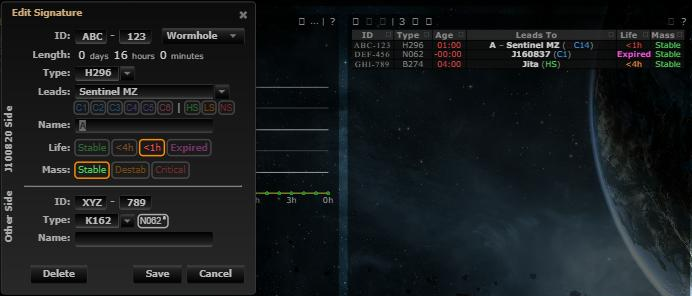
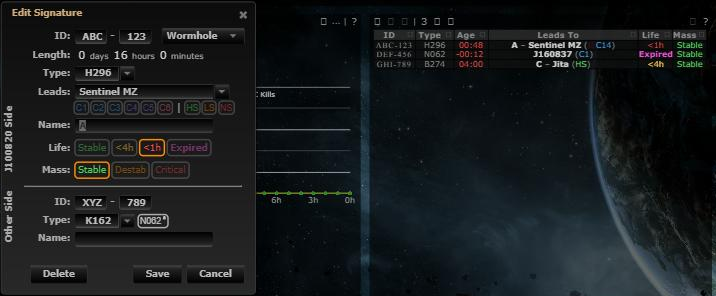
Life states: review round 1 fixes
- Dialog: the state it opened with keeps each signature's timer (no reset
  when the state moved on while the dialog was open)
- A never-expires hole set to Expired stays Expired (timer a second ago;
  only lifeLeft == lifeTime means no timer)
- Sig list: tell the table sorter when a Life cell's text changes
- <4h is amber (#FFC94D), apart from the Destab orange; new after.png
- sigInline: "critical" means <4h with life states on; doc updated
- life-wording: apply() does nothing without a document
- Change log: undo restores the old EOL timer for everyone

diff --git a/app/js/fork/life-states.js b/app/js/fork/life-states.js
@@ -62,14 +62,15 @@ const lifeStates = {
 	},
 
 	/** Time left (ms, negative once past) on a signature's timer, or null when it has none: no signature, an
-	unreadable time, or a "never expires" signature (lifeLength 0) whose timer was never set (lifeLeft <= lifeTime) */
+	unreadable time, or a "never expires" signature (lifeLength 0) whose timer was never set (the server then stores
+	lifeLeft = lifeTime exactly; a timer set to Expired is a second before "now", so it never equals lifeTime) */
 	remaining: function(sig, now) {
 		if (!sig) { return null; }
 		const left = lifeStates.parseTime(sig.lifeLeft);
 		if (isNaN(left)) { return null; }
 		if (Number(sig.lifeLength) === 0) {
 			const start = lifeStates.parseTime(sig.lifeTime);
-			if (isNaN(start) || left <= start) { return null; }
+			if (isNaN(start) || left === start) { return null; }
 		}
 		return left - now;
 	},
@@ -108,13 +109,14 @@ const lifeStates = {
 		return false;
 	},
 
-	/** Timer end (ms) for picking a state: kept when already inside the band, else the band's top. null for
-	stable (the server puts back the natural timer) or an unknown state. */
+	/** Timer end (ms) for picking a state: kept when already inside the band, else the band's top (Expired: a second
+	ago, so it can't equal a new signature's lifeTime, see remaining). null for stable (the server puts back the
+	natural timer) or an unknown state. */
 	targetLifeLeft: function(key, remaining, now) {
 		const s = lifeStates.state(key);
 		if (!s || s.life !== "critical") { return null; }
 		if (lifeStates.inBand(key, remaining)) { return now + remaining; }
-		return now + s.top * lifeStates.HOUR;
+		return s.top ? now + s.top * lifeStates.HOUR : now - 1000;
 	},
 
 	/** Refresh payload for setting a hole's state from the sig list / command palette: the wormhole's life and,
@@ -132,18 +134,29 @@ const lifeStates = {
 	},
 
 	/** Give the dialog's payload the picked state's timer. entry: the {wormhole, signatures} entry of the payload;
-	key: the picked state; current: the hole's current signatures (none for a new hole). */
-	applyToEntry: function(entry, key, current, now) {
+	key: the picked state; current: the hole's current signatures (none for a new hole); unchanged: the state is the
+	one the dialog opened with, so each signature keeps its current timer (the state may have moved on while the
+	dialog was open: that must not reset it). The dialog sends lifeLength, which would recompute the timer. */
+	applyToEntry: function(entry, key, current, now, unchanged) {
 		if (!entry || !entry.wormhole || typeof entry.wormhole !== "object" || entry.wormhole.life !== "critical") { return false; }
 		const s = lifeStates.state(key);
 		if (!s || s.life !== "critical") { return false; }
+		const set = function(sig, value) {
+			delete sig.lifeLeft;
+			sig.lifeLeft = value;	// after lifeLength: the server applies the keys in order
+		};
+		if (unchanged) {
+			const byId = {};
+			(current || []).forEach(function(c) { if (c && c.id !== undefined) { byId[c.id] = c; } });
+			(entry.signatures || []).forEach(function(sig) {
+				const c = sig && byId[sig.id];
+				if (c && c.lifeLeft) { set(sig, c.lifeLeft); }
+			});
+			return true;
+		}
 		const target = lifeStates.targetLifeLeft(key, lifeStates.holeRemaining(current, now), now);
 		if (target === null) { return false; }
-		(entry.signatures || []).forEach(function(sig) {
-			if (!sig) { return; }
-			delete sig.lifeLeft;
-			sig.lifeLeft = lifeStates.formatTime(target);	// after lifeLength: the server applies the keys in order
-		});
+		(entry.signatures || []).forEach(function(sig) { if (sig) { set(sig, lifeStates.formatTime(target)); } });
 		return true;
 	},
 
@@ -249,7 +262,10 @@ const lifeStates = {
 		const key = wormhole.life === "critical" ? (lifeStates.isOn() ? lifeStates.current(wormhole) : "lt4h") : "stable";
 		const input = document.querySelector("#dialog-signature [name='wormholeLife'][data-life-state='" + key + "']");
 		if (input) { input.checked = true; }
+		lifeStates.prefilled = { wormholeID: String(wormhole.id), key: key };
 	},
+
+	prefilled: null,	// {wormholeID, key}: the state the dialog opened with (dialogPrefill)
 
 	/** Called from the signature dialog's submit with the payload it built: add the picked state's timer */
 	dialogPayload: function(payload) {
@@ -261,7 +277,9 @@ const lifeStates = {
 		if (!key) { return; }
 		const sigs = (typeof tripwire !== "undefined" && tripwire.client && tripwire.client.signatures) || {};
 		const current = (entry.signatures || []).map(function(s) { return s && s.id ? sigs[s.id] : null; }).filter(Boolean);
-		lifeStates.applyToEntry(entry, key, current, lifeStates.now());
+		const p = lifeStates.prefilled;
+		const unchanged = !!(p && entry.wormhole.id !== undefined && String(entry.wormhole.id) === p.wormholeID && p.key === key);
+		lifeStates.applyToEntry(entry, key, current, lifeStates.now(), unchanged);
 	},
 
 	/** Life cells of the sig list (and the automapper's picker): text and colour for the hole's state now */
@@ -274,15 +292,18 @@ const lifeStates = {
 			bySig[wh.initialID] = wh;
 			bySig[wh.secondaryID] = wh;
 		});
+		let changed = false;
 		Array.prototype.forEach.call(document.querySelectorAll("#sigTable tbody tr[data-id]"), function(tr) {
 			const wh = bySig[tr.getAttribute("data-id")];
 			const cell = tr.children[4];
 			if (!wh || !cell || cell.classList.contains("sig-inline-saving") || cell.getAttribute("colspan")) { return; }
 			const key = on ? lifeStates.current(wh) : null;
 			const text = key ? lifeStates.label(key) : ({ critical: "EOL", stable: "Stable" }[wh.life] || wh.life);
-			if (cell.textContent !== text) { cell.textContent = text; }
+			if (cell.textContent !== text) { cell.textContent = text; changed = true; }
 			lifeStates.CLASSES.split(" ").forEach(function(c) { cell.classList.toggle(c, !!key && key !== "stable" && c === "life-" + key); });
 		});
+		// The table sorter caches the cell texts: sorting by Life must see the new ones
+		if (changed && typeof $ !== "undefined") { $("#sigTable").trigger("update"); }
 	},
 
 	setupSettings: function() {

diff --git a/app/js-test/fork/life-states.test.js b/app/js-test/fork/life-states.test.js
@@ -89,7 +89,7 @@ describe('Wormhole life states', () => {
 			assert.equal(lifeStates.targetLifeLeft('lt4h', null, now), now + 4 * H);
 			assert.equal(lifeStates.targetLifeLeft('lt1h', 3 * H, now), now + H);
 			assert.equal(lifeStates.targetLifeLeft('lt1h', -M, now), now + H);
-			assert.equal(lifeStates.targetLifeLeft('expired', 3 * H, now), now);
+			assert.equal(lifeStates.targetLifeLeft('expired', 3 * H, now), now - 1000);	// a second ago, see remaining
 		});
 		it('none for stable or an unknown state', () => {
 			assert.equal(lifeStates.targetLifeLeft('stable', H, now), null);
@@ -107,9 +107,9 @@ describe('Wormhole life states', () => {
 			const p = lifeStates.payload(wh('stable'), sig('11', now + 3 * H), sig('12', now + 3 * H), 'lt4h', now);
 			assert.equal(p.signatures.update[0].signatures[0].lifeLeft, at(now + 3 * H));
 		});
-		it('<4h -> Expired: the timer ends now', () => {
+		it('<4h -> Expired: the timer ends now (a second ago)', () => {
 			const p = lifeStates.payload(wh('critical'), sig('11', now + 3 * H), sig('12', now + 3 * H), 'expired', now);
-			assert.deepStrictEqual(p.signatures.update[0].signatures, [{ id: '11', lifeLeft: at(now) }, { id: '12', lifeLeft: at(now) }]);
+			assert.deepStrictEqual(p.signatures.update[0].signatures, [{ id: '11', lifeLeft: at(now - 1000) }, { id: '12', lifeLeft: at(now - 1000) }]);
 		});
 		it('critical -> stable sends only the life (the server puts back the natural timer)', () => {
 			assert.deepStrictEqual(lifeStates.payload(wh('critical'), sig('11', now + 3 * H), sig('12', now + 3 * H), 'stable', now), {
@@ -136,7 +136,7 @@ describe('Wormhole life states', () => {
 			const e = entry('critical');
 			assert.equal(lifeStates.applyToEntry(e, 'expired', [sig('11', now + 3 * H)], now), true);
 			e.signatures.forEach(s => {
-				assert.equal(s.lifeLeft, at(now));
+				assert.equal(s.lifeLeft, at(now - 1000));
 				assert.deepStrictEqual(Object.keys(s).slice(-2), ['lifeLength', 'lifeLeft']);
 			});
 		});
@@ -144,6 +144,29 @@ describe('Wormhole life states', () => {
 			const e = entry('critical');
 			lifeStates.applyToEntry(e, 'lt1h', [sig('11', now + 40 * M), sig('12', now + 40 * M)], now);
 			assert.equal(e.signatures[0].lifeLeft, at(now + 40 * M));
+		});
+		it('the state the dialog opened with keeps each signature timer, even if it moved on meanwhile', () => {
+			const e = entry('critical');
+			// opened at 1h01m left (<4h), saved two minutes later (now <1h): no reset to 4 hours
+			assert.equal(lifeStates.applyToEntry(e, 'lt4h', [sig('11', now - 1 * M), sig('12', now + 59 * M)], now, true), true);
+			assert.equal(e.signatures[0].lifeLeft, at(now - 1 * M));
+			assert.equal(e.signatures[1].lifeLeft, at(now + 59 * M));
+			assert.deepStrictEqual(Object.keys(e.signatures[0]).slice(-2), ['lifeLength', 'lifeLeft']);
+		});
+		it('unchanged leaves a signature without a current timer alone (it gets the server default)', () => {
+			const e = entry('critical');
+			lifeStates.applyToEntry(e, 'lt1h', [sig('11', now + 30 * M)], now, true);
+			assert.equal(e.signatures[0].lifeLeft, at(now + 30 * M));
+			assert.equal(e.signatures[1].lifeLeft, undefined);
+		});
+		it('a "never expires" hole added as Expired stays Expired', () => {
+			const e = { wormhole: { life: 'critical' }, signatures: [{ signatureID: 'abc123', lifeLength: '0' }, { signatureID: 'xyz789', lifeLength: '0' }] };
+			lifeStates.applyToEntry(e, 'expired', [], now);
+			// the server stores lifeTime = its own now (here the same second, or a little later)
+			[now, now + 2000].forEach(serverNow => {
+				const stored = e.signatures.map(s => ({ lifeTime: at(serverNow), lifeLength: '0', lifeLeft: s.lifeLeft }));
+				assert.equal(lifeStates.deriveHole({ life: 'critical' }, stored, now), 'expired');
+			});
 		});
 		it('a new hole (no current signatures) gets the band top', () => {
 			const e = entry('critical');

diff --git a/app/js/fork/sig-inline.js b/app/js/fork/sig-inline.js
@@ -77,6 +77,11 @@ const sigInline = {
 		return state ? state.cls : value;
 	},
 
+	/** A life value in the current mode: with life states on, upstream's "critical" (EOL) is "lt4h" */
+	normalise: function(field, value) {
+		return field === "life" && value === "critical" && sigInline.statesOn() ? "lt4h" : value;
+	},
+
 	/** The value shown for a wormhole's field: its life state when those are on, else the stored value */
 	valueOf: function(wormhole, field) {
 		if (field === "life" && wormhole && sigInline.statesOn()) { return lifeStates.current(wormhole); }
@@ -198,7 +203,9 @@ const sigInline = {
 
 	// ---- Save path ----
 
-	/** Save a change to one wormhole: sigInline.setWormhole(wormholeID, {life: "critical"}) or {mass: "destab"}.
+	/** Save a change to one wormhole: sigInline.setWormhole(wormholeID, {life: "lt1h"}) or {mass: "destab"}.
+	Life takes a state (stable / lt4h / lt1h / expired) when life states are on, else stable / critical; "critical"
+	means "lt4h" with states on.
 	Updates the table cell at once (restored if the save fails), and on success pushes the undo entry so Ctrl+Z
 	works. Returns a Promise of "saved" | "same" | "failed". */
 	setWormhole: function(wormholeID, change) {
@@ -214,7 +221,7 @@ const sigInline = {
 
 	saveNow: function(wormholeID, change) {
 		const field = Object.keys(change || {})[0];
-		const value = field ? change[field] : undefined;
+		const value = sigInline.normalise(field, field ? change[field] : undefined);
 		const wh = tripwire.client.wormholes[wormholeID];
 		const s1 = wh && tripwire.client.signatures[wh.initialID], s2 = wh && tripwire.client.signatures[wh.secondaryID];
 		const states = field === "life" && sigInline.statesOn() ? { sigs: [s1, s2], now: lifeStates.now() } : null;

diff --git a/app/js-test/fork/sig-inline.test.js b/app/js-test/fork/sig-inline.test.js
@@ -30,6 +30,12 @@ describe('Inline life / mass edits', () => {
 			assert.deepStrictEqual(act({ key: '4' }), { type: 'pick', value: 'expired' });
 			assert.deepStrictEqual(act({ key: '2' }), { type: 'pick', value: 'lt4h' });
 		});
+		it('upstream "critical" means <4h (the command palette and old callers may still send it)', () => {
+			assert.equal(sigInline.normalise('life', 'critical'), 'lt4h');
+			assert.equal(sigInline.normalise('mass', 'critical'), 'critical');
+			sigInline.statesOn = () => false;
+			assert.equal(sigInline.normalise('life', 'critical'), 'critical');
+		});
 		it('cell text and colour of a state', () => {
 			assert.equal(sigInline.cellText('life', 'lt1h'), '<1h');
 			assert.equal(sigInline.cellText('life', 'expired'), 'Expired');

diff --git a/app/css/fork/life-states.css b/app/css/fork/life-states.css
@@ -1,7 +1,7 @@
 /* Wormhole life states (fork feature: life-states). Stable is upstream's green; the critical states get warmer
-   from <4h (orange) over <1h (upstream's EOL red) to Expired (magenta). Used by the sig dialog's buttons,
+   from <4h (amber) over <1h (upstream's EOL red) to Expired (magenta). Used by the sig dialog's buttons,
    the sig list's Life cell and the inline life popover. */
-body .critical.life-lt4h { color: #FF8A3D; }
+body .critical.life-lt4h { color: #FFC94D; }
 body .critical.life-lt1h { color: #FF4747; }
 body .critical.life-expired { color: #F052D8; font-weight: bold; }
 

diff --git a/app/js/fork/life-wording.js b/app/js/fork/life-wording.js
@@ -23,6 +23,7 @@ const lifeWording = {
 	IDS: ["wormholeLifeStable", "wormholeLifeEOL", "wormholeLifeLt1h", "wormholeLifeExpired"],
 
 	apply: function() {
+		if (typeof document === "undefined" || typeof document.querySelector !== "function") { return; }
 		const statesOn = typeof lifeStates !== "undefined" && lifeStates.isOn();
 		lifeWording.IDS.forEach(function(id) {
 			const label = document.querySelector("label[for='" + id + "']");

diff --git a/changes/2026-10-13-wormhole-life-states/README.md b/changes/2026-10-13-wormhole-life-states/README.md
@@ -29,12 +29,14 @@ mask-defaults allow-list). Off: upstream's Stable / EOL buttons and behaviour ev
   expiry (upstream's `wormholeClean` event). "Never expires" signatures (life length 0) get a timer too, but the server
   never deletes them.
 - New `app/js/fork/life-states.js` (pure logic, dialog buttons, sig list Life text and colours, settings row) and
-  `app/css/fork/life-states.css` (<4h orange, <1h red, Expired magenta). The dialog's two extra buttons are added from JS;
+  `app/css/fork/life-states.css` (<4h amber, <1h red, Expired magenta). The dialog's two extra buttons are added from JS;
   upstream's EOL button becomes "<4h".
 - `app/js/fork/sig-inline.js`: four choices (keys 1-4), state-aware payload, cell text/colour and popover sync; undo
   restores the life and the timer. `command-args.js` / `command-palette.js`: Ctrl+K "Set life" takes stable / eol / 4h /
   1h / expired; the hole list shows the state instead of EOL. `life-wording.js`: tooltips for the four buttons.
 - Undo/redo send whole signatures, and the server applies `lifeLength` after `lifeLeft`, which reset the timer.
   `lifeLeft` is now sent after `lifeLength` (a `tripwire.refresh` wrapper), so undo restores the exact timer.
+- Undo now restores a hole's old EOL timer for everyone (setting on or off). So undoing a mistaken Stable on a hole
+  that expired long ago can bring it back already past its timer, and the server may clean it up soon after.
 - Upstream files touched (small, local): `app/js/dialogs/signature-dialog.js` (two hook lines: prefill and payload),
   `signatures.php` (a change to EOL keeps a timer the request sent instead of forcing now + 4 h). Also `docs/eve-wormhole-primer.md`.
